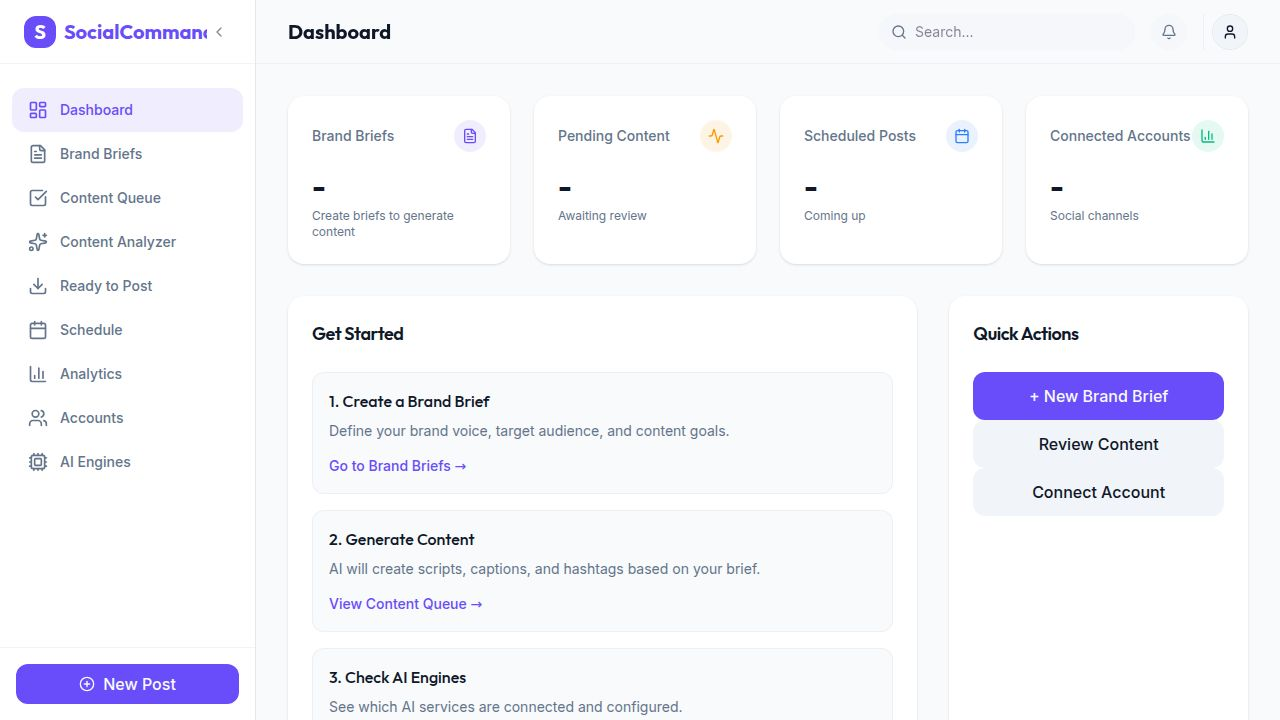
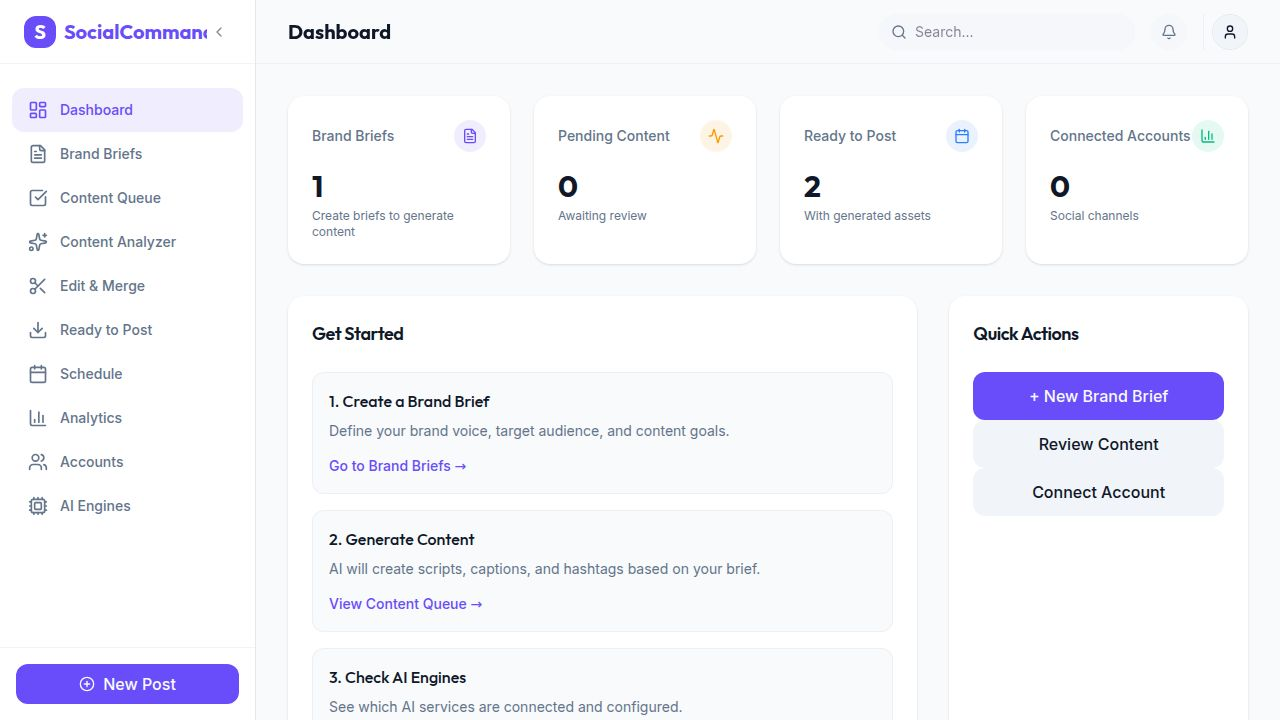
Update content posting to include image and text posts
Adjust the logic in Dashboard and ReadyToPost components to correctly filter and display approved image and TikTok text content, alongside video content that has generated assets.

Replit-Commit-Author: Agent
Replit-Commit-Session-Id: 75572201-90b1-4220-8221-e152abdb9b7f
Replit-Commit-Checkpoint-Type: full_checkpoint
Replit-Commit-Event-Id: dca6de30-0cca-4110-adab-fd525fa15ce9
Replit-Commit-Screenshot-Url: https://storage.googleapis.com/screenshot-production-us-central1/776bf55e-733a-4d3d-af04-dcddb1868f6d/75572201-90b1-4220-8221-e152abdb9b7f/aFGhkNu
Replit-Helium-Checkpoint-Created: true

diff --git a/client/src/pages/ReadyToPost.tsx b/client/src/pages/ReadyToPost.tsx
@@ -69,8 +69,16 @@ export default function ReadyToPost() {
 
   const hasYouTubeAccounts = youtubeAccounts.length > 0;
 
-  const hasGeneratedAssets = (content: GeneratedContent) => {
+  const isReadyToPost = (content: GeneratedContent) => {
     const metadata = content.generationMetadata as any;
+    const contentType = metadata?.contentType || "video";
+    
+    // Image and TikTok text posts are ready immediately upon approval
+    if (contentType === "image" || contentType === "tiktok_text") {
+      return true;
+    }
+    
+    // Video content needs video or voiceover assets
     return (
       metadata?.mergedVideoUrl ||
       metadata?.generatedVideoUrl || 
@@ -84,9 +92,14 @@ export default function ReadyToPost() {
     return metadata?.mergedVideoUrl || metadata?.generatedVideoUrl || content.videoUrl || null;
   };
 
+  const getContentType = (content: GeneratedContent): string => {
+    const metadata = content.generationMetadata as any;
+    return metadata?.contentType || "video";
+  };
+
   const readyContent = approvedContent.filter((content) => {
     const matchesBrief = filterBrief === "all" || content.briefId === filterBrief;
-    return hasGeneratedAssets(content) && matchesBrief;
+    return isReadyToPost(content) && matchesBrief;
   });
 
   const postedContent = postedContentRaw.filter((content) => {

diff --git a/client/src/pages/Dashboard.tsx b/client/src/pages/Dashboard.tsx
@@ -27,6 +27,11 @@ export default function Dashboard() {
   const connectedAccounts = socialAccounts.filter(acc => acc.isConnected === "connected");
   const readyToPostCount = approvedContent.filter(c => {
     const metadata = c.generationMetadata as any;
+    const contentType = metadata?.contentType || "video";
+    // Image and TikTok text are ready immediately; video needs assets
+    if (contentType === "image" || contentType === "tiktok_text") {
+      return true;
+    }
     return metadata?.mergedVideoUrl || metadata?.generatedVideoUrl || metadata?.voiceoverAudioUrl;
   }).length;
 
